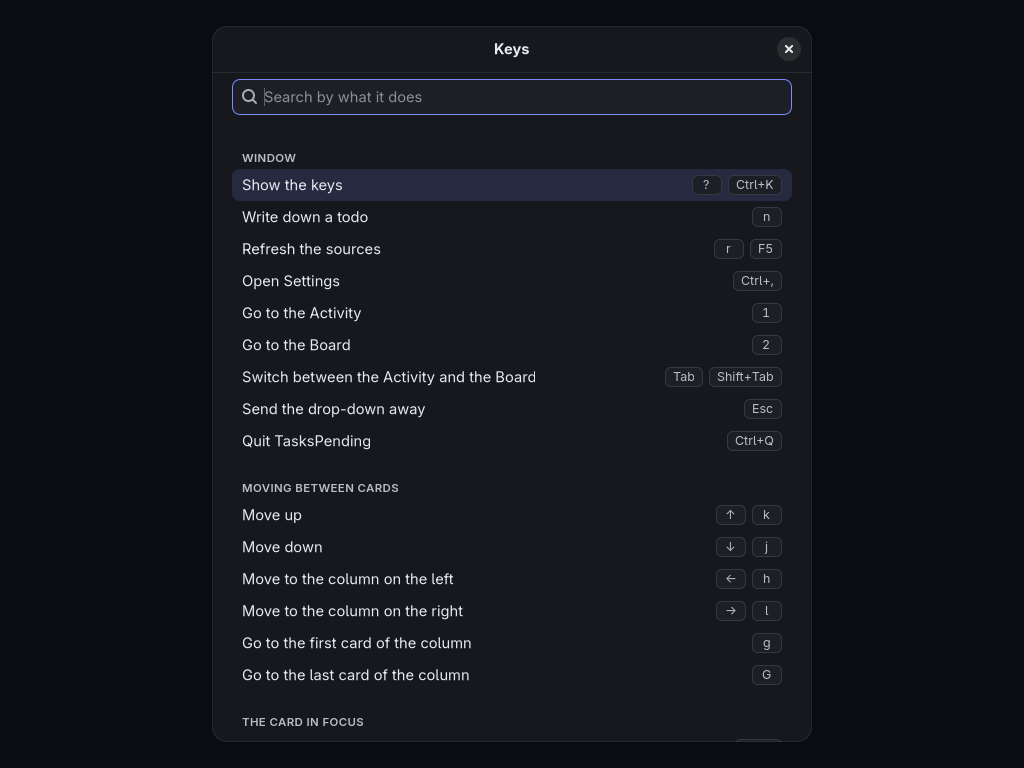
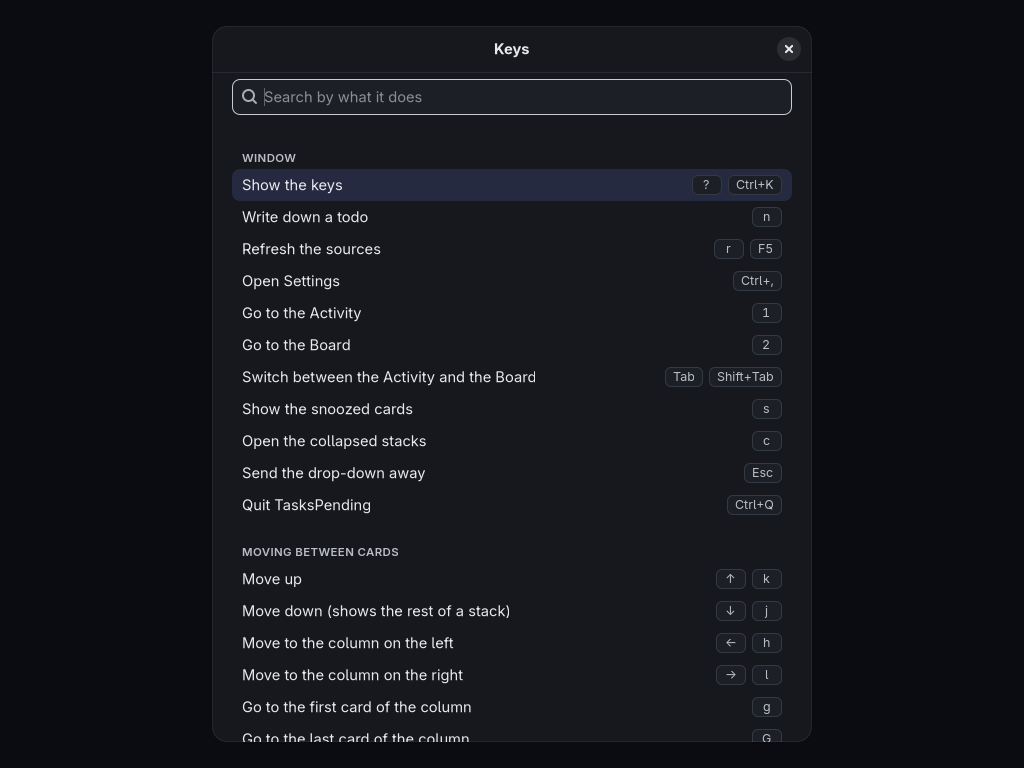
feat(app): keys for the cards the focus no longer reaches
With the focus on the cards only, a stack's cards past the fifth, the
stacks collapsed with the mouse and the snoozed list had no key. Down
(or j) on the last card a stack shows, while it holds more, now opens
the stack and goes on to the first card it was hiding; c opens the
collapsed stacks on the Board; s lists the snoozed cards, and the
snoozed link's tooltip names it. The keys dialog lists both, and its
picture is retaken. Only tidying the Board (collapsing a stack, showing
the empty ones, showing fewer cards) stays the mouse's.

Changed region(s): [[0.2188, 0.5312, 0.5, 0.8438], [0.2188, 0.875, 0.4688, 0.9688], [0.6875, 0.5312, 0.75, 0.6875]]

diff --git a/crates/pending-app/src/keymap.rs b/crates/pending-app/src/keymap.rs
@@ -17,6 +17,8 @@ pub enum Command {
     ActivityTab,
     BoardTab,
     SwitchTab,
+    Snoozed,
+    OpenStacks,
     SendAway,
     Quit,
     Up,
@@ -190,6 +192,20 @@ pub const BINDINGS: &[Binding] = &[
         Section::Window,
         &[chord(Key::Tab, NONE), chord(Key::Tab, SHIFT)],
     ),
+    // The keyboard reaches the cards only, so what the mouse opens to show
+    // more of them has keys: these two, and Down past a stack's last card.
+    bind(
+        Command::Snoozed,
+        "Show the snoozed cards",
+        Section::Window,
+        &[chord(Key::s, NONE)],
+    ),
+    bind(
+        Command::OpenStacks,
+        "Open the collapsed stacks",
+        Section::Window,
+        &[chord(Key::c, NONE)],
+    ),
     Binding {
         elsewhere: true,
         ..bind(
@@ -218,7 +234,7 @@ pub const BINDINGS: &[Binding] = &[
     ),
     bind(
         Command::Down,
-        "Move down",
+        "Move down (shows the rest of a stack)",
         Section::Moving,
         &[chord(Key::Down, NONE), chord(Key::j, NONE)],
     ),
@@ -604,7 +620,8 @@ mod tests {
         assert_eq!(window(Key::n, NONE), Some(Command::NewTodo));
         assert_eq!(window(Key::r, NONE), Some(Command::Refresh));
         assert_eq!(window(Key::F5, NONE), Some(Command::Refresh));
-        assert_eq!(window(Key::s, NONE), None, "Sources live in Settings");
+        assert_eq!(window(Key::s, NONE), Some(Command::Snoozed));
+        assert_eq!(window(Key::c, NONE), Some(Command::OpenStacks));
         assert_eq!(window(Key::comma, CTRL), Some(Command::Settings));
         assert_eq!(window(Key::Tab, NONE), Some(Command::SwitchTab));
         assert_eq!(window(Key::Tab, SHIFT), Some(Command::SwitchTab));
@@ -817,6 +834,8 @@ mod tests {
             [pair("Tab", "Tab"), pair("Shift+Tab", "<Shift>Tab")]
         );
         assert_eq!(named(Command::Menu), [pair("Ctrl+.", "<Control>period")]);
+        assert_eq!(named(Command::Snoozed), [pair("s", "s")]);
+        assert_eq!(named(Command::OpenStacks), [pair("c", "c")]);
         assert_eq!(named(Command::Delete), [pair("Delete", "Delete")]);
         assert_eq!(hinted("Refresh", Command::Refresh), "Refresh (r)");
         assert_eq!(hinted("Settings", Command::Settings), "Settings (Ctrl+,)");
@@ -870,8 +889,18 @@ mod tests {
             "each word, anywhere"
         );
         assert_eq!(labels("stage next"), ["Move to the next stage"]);
-        assert_eq!(labels("show the"), ["Show the keys"]);
+        assert_eq!(
+            labels("show the"),
+            [
+                "Show the keys",
+                "Show the snoozed cards",
+                "Move down (shows the rest of a stack)"
+            ]
+        );
         assert_eq!(labels("sources"), ["Refresh the sources"]);
+        assert_eq!(labels("snoozed"), ["Show the snoozed cards"]);
+        assert_eq!(labels("collapsed"), ["Open the collapsed stacks"]);
+        assert_eq!(labels("rest"), ["Move down (shows the rest of a stack)"]);
         assert_eq!(labels("ctrl k"), ["Show the keys"], "by its key");
         assert_eq!(labels("tab"), ["Switch between the Activity and the Board"]);
         assert_eq!(labels("ctrl+,"), ["Open Settings"]);

diff --git a/crates/pending-app/src/present.rs b/crates/pending-app/src/present.rs
@@ -71,6 +71,24 @@ pub struct StackView {
     pub empty_note: Option<String>,
 }
 
+impl StackView {
+    /// The stack's key while it hides cards: Down from the last card it
+    /// shows opens it, as its "more" button does.
+    pub fn to_open(&self) -> Option<&str> {
+        (self.more > 0).then_some(self.key.as_str())
+    }
+}
+
+/// The keys of the stacks collapsed among `groups`, which c opens.
+pub fn collapsed_stacks(groups: &[GroupView]) -> Vec<String> {
+    groups
+        .iter()
+        .flat_map(|group| &group.stacks)
+        .filter(|stack| stack.collapsed)
+        .map(|stack| stack.key.clone())
+        .collect()
+}
+
 #[derive(Clone, Debug, PartialEq, Eq)]
 pub struct GroupView {
     pub key: String,
@@ -2223,6 +2241,39 @@ mod tests {
     fn refreshes_every_source_as_often_as_set() {
         assert_eq!(auto_refresh_every(0), None);
         assert_eq!(auto_refresh_every(15), Some(Duration::from_secs(15 * 60)));
+    }
+
+    /// What the mouse opens, the keys open too: Down from the last card a
+    /// stack shows opens it while it hides cards, as its "more" button
+    /// does, and c opens the stacks collapsed on the page.
+    #[test]
+    fn the_keys_open_what_the_mouse_opens() {
+        let shown = page(&snapshot(), &View::default());
+        assert_eq!(
+            shown.groups[1].stacks[0].to_open(),
+            Some("Work/github/Review"),
+            "7 cards, 5 shown"
+        );
+        assert_eq!(
+            shown.groups[0].stacks[0].to_open(),
+            None,
+            "every card shown"
+        );
+        let mut view = View::default();
+        view.open_columns.insert("Work/github/Review".to_owned());
+        let shown = page(&snapshot(), &view);
+        assert_eq!(shown.groups[1].stacks[0].to_open(), None, "open already");
+
+        assert_eq!(collapsed_stacks(&shown.groups), Vec::<String>::new());
+        let mut view = View::default();
+        view.collapsed.insert("Work/github/Review".to_owned());
+        view.collapsed.insert("Home/gone/Stack".to_owned());
+        let shown = page(&snapshot(), &view);
+        assert_eq!(
+            collapsed_stacks(&shown.groups),
+            ["Work/github/Review"],
+            "only those on the page"
+        );
     }
 
     /// What the group header's toggle and a stack's "more" button say.

diff --git a/crates/pending-app/src/ui/board.rs b/crates/pending-app/src/ui/board.rs
@@ -29,6 +29,9 @@ pub struct Slot {
     pub place: Place,
     pub widget: gtk::glib::WeakRef<gtk::Box>,
     pub menu: gtk::glib::WeakRef<gtk::MenuButton>,
+    /// The stack Down opens from here: set on the last card a stack shows
+    /// while it hides more.
+    pub opens: Option<String>,
 }
 
 /// Where the keyboard focus is among the cards: the card that has it,
@@ -64,6 +67,11 @@ pub fn focus_card(ctx: &Ctx, spot: Spot, shown: bool) {
             window.set_focus_visible(true);
         }
     }
+}
+
+/// The stack Down opens from the card at `spot`, if any.
+pub fn opens(ctx: &Ctx, spot: Spot) -> Option<String> {
+    ctx.cards.borrow().get(spot.0)?.get(spot.1)?.opens.clone()
 }
 
 /// How many cards each column holds.
@@ -507,6 +515,16 @@ fn stack_widget(ctx: &Rc<Ctx>, stack: &StackView, after: bool) -> gtk::Box {
     for card in &stack.cards {
         cards.append(&card_widget(ctx, card, Place::Board));
     }
+    // Down from the last card shown opens the stack, as the button does.
+    if let Some(key) = stack.to_open()
+        && let Some(slot) = ctx
+            .cards
+            .borrow_mut()
+            .last_mut()
+            .and_then(|column| column.last_mut())
+    {
+        slot.opens = Some(key.to_owned());
+    }
     if let Some(label) = &stack.more_label {
         let more = gtk::Button::builder()
             .label(label)
@@ -608,6 +626,7 @@ fn card_widget(ctx: &Rc<Ctx>, card: &CardView, place: Place) -> gtk::Box {
             place,
             widget: widget.downgrade(),
             menu: menu.downgrade(),
+            opens: None,
         });
     }
 

diff --git a/crates/pending-app/src/ui/keys.rs b/crates/pending-app/src/ui/keys.rs
@@ -110,6 +110,23 @@ pub fn run(ctx: &Rc<Ctx>, command: Command) {
             let tab = ctx.model.borrow().tab;
             ctx.show_tab(tab.other());
         }
+        Command::Snoozed => dialogs::show_snoozed(ctx),
+        Command::OpenStacks => {
+            let collapsed = ctx
+                .model
+                .borrow()
+                .drawn
+                .as_ref()
+                .map(|page| present::collapsed_stacks(&page.groups))
+                .unwrap_or_default();
+            if !collapsed.is_empty() {
+                ctx.change_view(|view| {
+                    for key in &collapsed {
+                        view.collapsed.remove(key);
+                    }
+                });
+            }
+        }
         Command::SendAway => {
             ctx.escape();
         }
@@ -140,6 +157,18 @@ pub fn run(ctx: &Rc<Ctx>, command: Command) {
 /// or to the first one.
 fn move_focus(ctx: &Rc<Ctx>, step: Move) {
     let from = board::focused(ctx).map(|(spot, _)| spot);
+    // Down from the last card a stack shows, while it hides more, opens
+    // the stack and goes on to the first card it was hiding.
+    if step == Move::Down
+        && let Some(spot) = from
+        && let Some(key) = board::opens(ctx, spot)
+    {
+        ctx.change_view(|view| {
+            view.open_columns.insert(key);
+        });
+        board::focus_card(ctx, (spot.0, spot.1 + 1), true);
+        return;
+    }
     if let Some(spot) = nav::step(&board::column_lengths(ctx), from, step) {
         board::focus_card(ctx, spot, true);
     }

diff --git a/crates/pending-app/src/ui/hero.rs b/crates/pending-app/src/ui/hero.rs
@@ -217,6 +217,7 @@ impl Controls {
         let snoozed_button = gtk::Button::builder()
             .visible(false)
             .focusable(false)
+            .tooltip_text(hinted("Show the snoozed cards", KeyCommand::Snoozed))
             .build();
         snoozed_button.add_css_class("quiet-link");
         let update = label("", &[]);

diff --git a/docs/operations.md b/docs/operations.md
@@ -151,13 +151,13 @@ Source health opens **Settings**: each source's board, status, last fetch and fa
 
 Every card has a three-dot button (shown when the pointer is on the card; the keyboard reaches it too) that opens its menu, which holds every action. **Send to Activity** marks the card as in progress: it stays in its stack, highlighted, and appears on the **Activity** tab; **Remove from Activity** unmarks it. Activity is a board of three stages, **Picked**, **In Progress** and **Done / to mark**: a card arrives at Picked, and its menu on that tab moves it to the next stage or back. Activity shows every marked card whatever the board filter and hidden items, with no limit, and when nothing is marked it says so with a link to the Board. Marks are kept by the daemon in `$XDG_STATE_HOME/tasks-pending/marks.json` (next to the cache), so they survive restarts. A mark is dropped on its own when its card is gone after a clean refresh of its source that finished after the card was marked (the item was done elsewhere); while the source is failing, refreshing or showing old data, the mark is kept, and so is the mark of a card that a stack's `exclude` patterns hide. Marks of a source that is not on the dashboard (switched off, or absent from the config in use) are kept for a month, so they are back when the source is. Deleting `marks.json` clears every mark. The stage is the window's own choice: it is kept in `app-view.json` beside the other choices, and dropped when the mark goes, so a card marked again starts at Picked. The tab is not remembered: the window always opens on Activity.
 
-On the Board, the menu's **Snooze** entry offers **1 hour**, **Tomorrow** (the next day at 8:00, local time), **Next week** (the next Monday at 8:00; on a Monday, the following one) and **Until it changes**. Whatever the choice, a snoozed card comes back early when its item changes (its last update moves), so snoozing never hides news. Nothing is written to the provider. While cards are snoozed, the quiet `N snoozed` link after the update time opens the list, where **Wake** brings a card back now. Snoozes are kept by the daemon in `$XDG_STATE_HOME/tasks-pending/snoozes.json` and forgotten when the card is finished elsewhere, like marks. A snoozed card keeps its mark, and its stage, and is back on Activity when it wakes.
+On the Board, the menu's **Snooze** entry offers **1 hour**, **Tomorrow** (the next day at 8:00, local time), **Next week** (the next Monday at 8:00; on a Monday, the following one) and **Until it changes**. Whatever the choice, a snoozed card comes back early when its item changes (its last update moves), so snoozing never hides news. Nothing is written to the provider. While cards are snoozed, the quiet `N snoozed` link after the update time (or **s**) opens the list, where **Wake** brings a card back now. Snoozes are kept by the daemon in `$XDG_STATE_HOME/tasks-pending/snoozes.json` and forgotten when the card is finished elsewhere, like marks. A snoozed card keeps its mark, and its stage, and is back on Activity when it wakes.
 
 **Alert me about**, in the same menu, rings a desktop notification about the card **in 15 min**, **30 min**, **1 hour** or **3 hours**. Until then the card says `Alert at HH:MM`, **Cancel the alert** calls it off, and choosing another time replaces it. The window looks at its alerts every 30 seconds by the wall clock, so one the machine slept through rings on waking. The notification carries the card's title, then its source and the time the alert was set for; it is sent through the application id (`io.github.brunoomariano.TasksPending`) to the desktop's notification daemon, and clicking it brings the window up. On Omarchy, an alert that rings while the window is not in front also leaves a dot on TasksPending's icon on the bar, in the bar's urgent colour, with the card's title in its tooltip; the dot goes when the window comes to the front, and when TasksPending quits. Alerts last as long as TasksPending runs: they are written nowhere, and quitting it forgets them.
 
 Todos, for things that come from no source, live in the Activity, not on the Board. **New** at the end of the Picked column's header opens a dialog for a title and optional details, and the todo lands in Picked, after the marked cards, with `Todo` where a card names its source. Its menu moves it between the stages and sets an alert like any card's, and has **Edit** and **Delete** where a card has Send to or Remove from Activity and Snooze: a todo has nowhere else to be, so Delete is how it goes. Todos are kept in `$XDG_DATA_HOME/tasks-pending/todos.sqlite3` (`~/.local/share/tasks-pending/todos.sqlite3` when it is unset), a SQLite file only you can read (the file is made 0600, and a folder made for it 0700), so they are back as you left them after a restart; alerts still last only while TasksPending runs, hidden or minimized included, which the dialog says. A file there that is not TasksPending's, or not a database, is left untouched, and one written by a newer TasksPending is read but never written; either way, and when a save fails, the Activity says the todos are not being saved, and why, and changes last until TasksPending quits. Delete the file to start with none. The sandbox and `--screenshot` keep their todos in memory and never open the file.
 
-What the mouse does has a key as well, and **?** or **Ctrl+K** opens the list of keys, searched by what a key does: the arrows pick one, Enter runs it, Esc (or Backspace with nothing typed) closes the list. In the window, **n** writes down a todo, **r** or **F5** refreshes (only when the button would), **Ctrl+,** opens Settings, the sources included, **Tab** (or **Shift+Tab**) switches between the Activity and the Board, and **1** and **2** bring either to the front. The keyboard focus goes to the cards and nowhere else on the page: not to the buttons, the tabs, a stack's header, an empty stack or a card's link and menu button, which the mouse still clicks. **j** and **k**, or **↓** and **↑**, move down and up a column (a stage of the Activity, a group of the Board), **h** and **l**, or **←** and **→**, to the next column with cards on either side, **g** and **G** to the first and last card of the column; with no card in focus, they go to the first one. On the card in focus, **Enter** sends it to the Activity or takes it back, **Shift+→** and **Shift+←** (or **L** and **H**) move it along the stages, **o** opens its link, **e** edits a todo, **Ctrl+.** opens its menu, **a** opens the alert choices and **z** the snooze choices, and **Delete**, pressed twice within six seconds, deletes a todo. A key held down acts once, and does not type into a dialog it opened; only the moves repeat. A key does only what the card's menu offers, and the menu names the keys of the stage moves and of Edit. The keys stand aside while a dialog or a menu is open, or while you type. A click on a card gives it the focus, so the keys go on from the card you clicked, and after a redraw, a dialog or the card's menu closing, the focus stays with the card, wherever it went. The card in focus wears a ring in the text colour, never the accent, which marks the picked cards and the open tab.
+What the mouse does to the cards has a key as well, and **?** or **Ctrl+K** opens the list of keys, searched by what a key does: the arrows pick one, Enter runs it, Esc (or Backspace with nothing typed) closes the list. In the window, **n** writes down a todo, **r** or **F5** refreshes (only when the button would), **Ctrl+,** opens Settings, the sources included, **Tab** (or **Shift+Tab**) switches between the Activity and the Board, and **1** and **2** bring either to the front, **s** lists the snoozed cards and **c** opens the stacks collapsed on the Board. The keyboard focus goes to the cards and nowhere else on the page: not to the buttons, the tabs, a stack's header, an empty stack or a card's link and menu button, which the mouse still clicks. Only tidying the Board is the mouse's alone: collapsing a stack, showing the empty stacks, which hold no cards, and showing fewer cards again. **j** and **k**, or **↓** and **↑**, move down and up a column (a stage of the Activity, a group of the Board), **h** and **l**, or **←** and **→**, to the next column with cards on either side, **g** and **G** to the first and last card of the column; with no card in focus, they go to the first one. **j** or **↓** on the last card a stack shows, while it holds more, shows the rest and goes on to the first of them. On the card in focus, **Enter** sends it to the Activity or takes it back, **Shift+→** and **Shift+←** (or **L** and **H**) move it along the stages, **o** opens its link, **e** edits a todo, **Ctrl+.** opens its menu, **a** opens the alert choices and **z** the snooze choices, and **Delete**, pressed twice within six seconds, deletes a todo. A key held down acts once, and does not type into a dialog it opened; only the moves repeat. A key does only what the card's menu offers, and the menu names the keys of the stage moves and of Edit. The keys stand aside while a dialog or a menu is open, or while you type. A click on a card gives it the focus, so the keys go on from the card you clicked, and after a redraw, a dialog or the card's menu closing, the focus stays with the card, wherever it went. The card in focus wears a ring in the text colour, never the accent, which marks the picked cards and the open tab.
 
 A small dot before a card's title means the item changed since you last looked, and the same dot after a stack's count means the stack holds such a card (also when it is collapsed or the card is behind "Show more"). There is no count and no label. "Looking" is doing something in the window: a click, a key, scrolling. Opening the window counts; the pointer merely crossing it, or the window taking focus under it, does not, so the dots are not cleared by accident. When you come back after 10 minutes or more without activity, the dots show what changed since your previous activity; cards that change while you keep using the window get a dot too, and all of them clear the next time you return. A change counts from the moment the dashboard fetched it: an item that changed just before you left, but that its source only refreshed after, is flagged on your return, because it was never on screen. The daemon keeps these times in `$XDG_STATE_HOME/tasks-pending/looks.json`. Activity is reported at most once a minute.
 

diff --git a/AGENTS.md b/AGENTS.md
@@ -52,7 +52,7 @@ Visual style: simple and quiet, described in `crates/pending-app/DESIGN.md` (rea
 
 Omarchy's bar: `crates/pending-app/src/omarchy_bar.rs` carries the shell plugin in `src/omarchy-bar/` (its manifest takes the crate's version) and writes it under `~/.config/omarchy/plugins/` when Settings turns it on (and at startup over a copy already there, so it follows upgrades); `dropdown.rs` decides each `tasks-pending toggle`, each close and each Esc from what Hyprland reports over its socket (a window in `special:tasks-pending` is dropped down) and drives it with Lua dispatches, which it tests against a stand-in socket. The window tells the icon what to show through `tasks-pending-bar.json` right in `$XDG_RUNTIME_DIR` (Quickshell does not see a file appear in a folder that did not exist when it started watching) (`omarchy_bar::signal` and `tell`: a dot while alerts rang with the window away, `alert::Missed`), which the plugin watches with Quickshell's `FileView`; a change to that file's shape changes both. A change to the plugin is checked by `omarchy-plugin-validate` in the tests where Omarchy is installed. The sandbox and `--screenshot` never touch Omarchy's or Hyprland's config.
 
-Keys: `keymap.rs` is the one table of commands, what each is called and its keys, with what each key needs (nothing, a card in focus, or the card itself). The key handler (`ui/keys.rs`, on the window in the capture phase, standing aside while a dialog or a menu is open or the focus is in a text field), the keys dialog, the tooltips and the card menu's hints all read it. Moving between cards is `nav.rs` over the cards the page registers by column as it draws them (`Ctx::cards`). A card's key does what its menu offers (`present::key_action`), so no key reaches an action the menu would not show. Esc and Ctrl+Q keep their own handlers, and the table only lists them. What the window does with a key going down is `keymap::verdict`, a plain function over the keys held (`nav::Held`), tested without a window: held down, only the moves repeat (`Binding::repeats`), a key whose press ran something goes nowhere until it comes up (not into the dialog it opened either), and Esc's repeats go nowhere. On the page only the cards take the keyboard focus: Tab (the tabs) and the arrows (the cards) belong to the handler, and a button, tab or header added to the page is built `focusable(false)`, or the focus and Enter land on it. Every dialog goes through `dialogs::show_over`, which gives the focus back to the card that had it; a direct `present()` loses that. The card menu names a key only through `keymap::menu_hint`: GTK turns a menu entry's `accel` into a live shortcut while the menu is open, so only the stage moves and Edit are named there, never Enter or Delete (one press would delete).
+Keys: `keymap.rs` is the one table of commands, what each is called and its keys, with what each key needs (nothing, a card in focus, or the card itself). The key handler (`ui/keys.rs`, on the window in the capture phase, standing aside while a dialog or a menu is open or the focus is in a text field), the keys dialog, the tooltips and the card menu's hints all read it. Moving between cards is `nav.rs` over the cards the page registers by column as it draws them (`Ctx::cards`). A card's key does what its menu offers (`present::key_action`), so no key reaches an action the menu would not show. Esc and Ctrl+Q keep their own handlers, and the table only lists them. What the window does with a key going down is `keymap::verdict`, a plain function over the keys held (`nav::Held`), tested without a window: held down, only the moves repeat (`Binding::repeats`), a key whose press ran something goes nowhere until it comes up (not into the dialog it opened either), and Esc's repeats go nowhere. On the page only the cards take the keyboard focus: Tab (the tabs) and the arrows (the cards) belong to the handler, and a button, tab or header added to the page is built `focusable(false)`, or the focus and Enter land on it; what such a control shows that the keyboard needs gets a key instead (as **s** lists the snoozed cards, **c** opens the collapsed stacks, and Down past a stack's last card shown opens the rest, from `Slot::opens`). Every dialog goes through `dialogs::show_over`, which gives the focus back to the card that had it; a direct `present()` loses that. The card menu names a key only through `keymap::menu_hint`: GTK turns a menu entry's `accel` into a live shortcut while the menu is open, so only the stage moves and Edit are named there, never Enter or Delete (one press would delete).
 
 Todos: `todo_store.rs` keeps them in `todos.sqlite3` in the data dir (`pending_runtime::config::data_dir`), through `rusqlite` with SQLite bundled; `session::Todos` writes the whole list on every change, so a save that works makes good one that failed. The file carries an `application_id` and a `user_version`: a schema change is a new entry at the end of `MIGRATIONS`, never an edit to one that shipped, and a file from a newer schema is read and never written. `scripts/install.sh --uninstall` removes only the files it installed from that folder. The sandbox and `--screenshot` keep their todos in memory. Alerts are not saved.
 

diff --git a/README.md b/README.md
@@ -18,7 +18,7 @@ A click on the icon (ringed) drops the window down, and the next sends it away. 
 - **What to do next.** GitHub pull requests are split by next action (review requested, returned to you, ready to merge, not approved yet, drafts), with review state, checks and comment counts on the card.
 - **Activity.** Send the cards you are working on to the Activity tab, a board of three stages: Picked, In Progress, Done / to mark. The window opens on it; the Board tab holds the groups, where the picked cards stay highlighted.
 - **One menu per card.** Every action sits behind a three-dot button on the card: send to Activity, move between stages, snooze, alert, and for a todo edit and delete.
-- **The keyboard, too.** What the mouse does has a key, and the mouse keeps working: **?** or **Ctrl+K** lists the keys, searched by what each does. **j**/**k** and **h**/**l**, or the arrows, move between the cards, and only the cards, **Tab** switches between the Activity and the Board, **Enter** sends one to the Activity or takes it back, **Shift+→** and **Shift+←** move it along the stages, **o** opens its link and **Ctrl+.** its menu.
+- **The keyboard, too.** What the mouse does to the cards has a key, and the mouse keeps working: **?** or **Ctrl+K** lists the keys, searched by what each does. **j**/**k** and **h**/**l**, or the arrows, move between the cards, and only the cards, **Tab** switches between the Activity and the Board, **Enter** sends one to the Activity or takes it back, **Shift+→** and **Shift+←** move it along the stages, **o** opens its link and **Ctrl+.** its menu.
 - **Snooze.** Hide a card for an hour, until tomorrow, until next week, or until it changes. It always comes back when the item changes, and nothing is written to the provider.
 - **Alerts.** Ask to be alerted about a card in 15 minutes, 30 minutes, an hour or three hours: when the time comes, a desktop notification names it, and clicking it brings the window up.
 - **Todos.** Write down something that comes from no source: **New** in the Picked column of the Activity puts it there, it moves through the stages like the other cards, and it is still there after a restart.

diff --git a/CHANGELOG.md b/CHANGELOG.md
@@ -4,8 +4,8 @@
 
 ### Changed
 
-- The keyboard moves only between the cards. The arrows do what **h**/**j**/**k**/**l** do from anywhere in the window, and the focus no longer lands on the buttons, the tabs, a stack's header, an empty stack or a card's link and menu button; the mouse clicks them as before. **Tab** (or **Shift+Tab**) switches between the Activity and the Board. The card in focus wears a ring in the text colour, so it no longer looks like a picked card or the open tab.
-- The sources are at the top of Settings, and the Sources button and its **s** key are gone: the gear shows the warning icon while a source needs a look.
+- The keyboard moves only between the cards. The arrows do what **h**/**j**/**k**/**l** do from anywhere in the window, and the focus no longer lands on the buttons, the tabs, a stack's header, an empty stack or a card's link and menu button; the mouse clicks them as before. **Tab** (or **Shift+Tab**) switches between the Activity and the Board. The card in focus wears a ring in the text colour, as do the controls in dialogs, so it no longer looks like a picked card or the open tab. What the focus no longer reaches has keys: **j** or **↓** on the last card a stack shows opens the rest, **c** opens the collapsed stacks and **s** lists the snoozed cards.
+- The sources are at the top of Settings, and the Sources button is gone, its **s** key now listing the snoozed cards: the gear shows the warning icon while a source needs a look.
 
 ### Fixed
 
